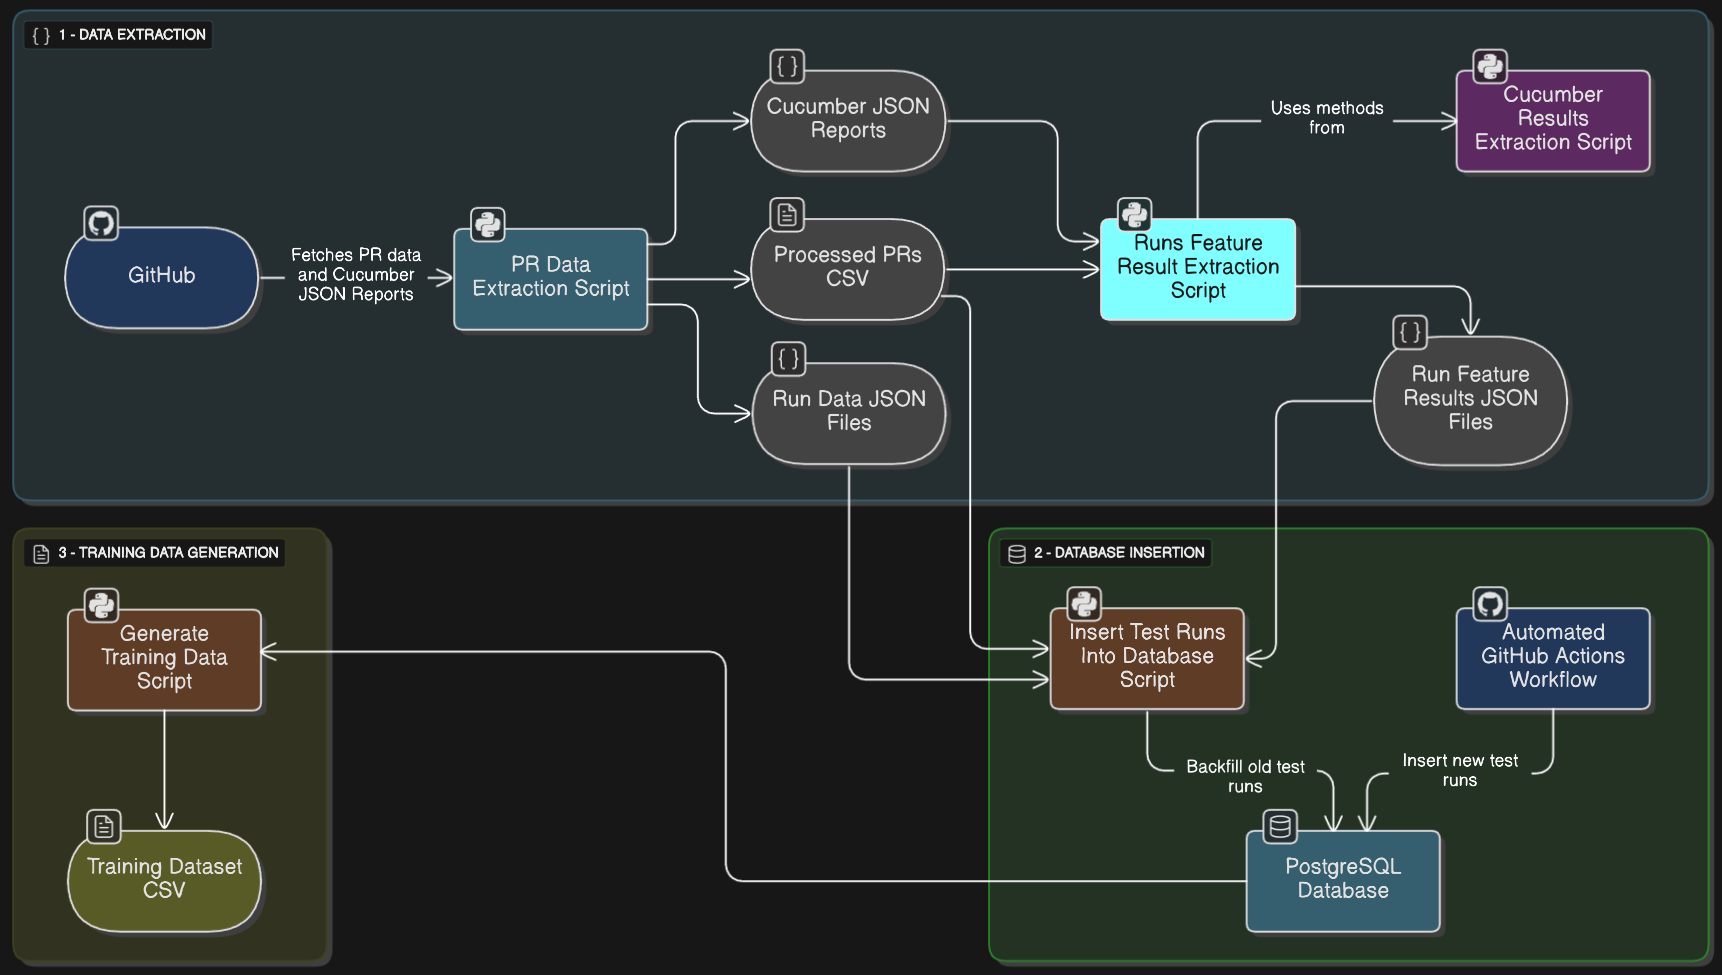
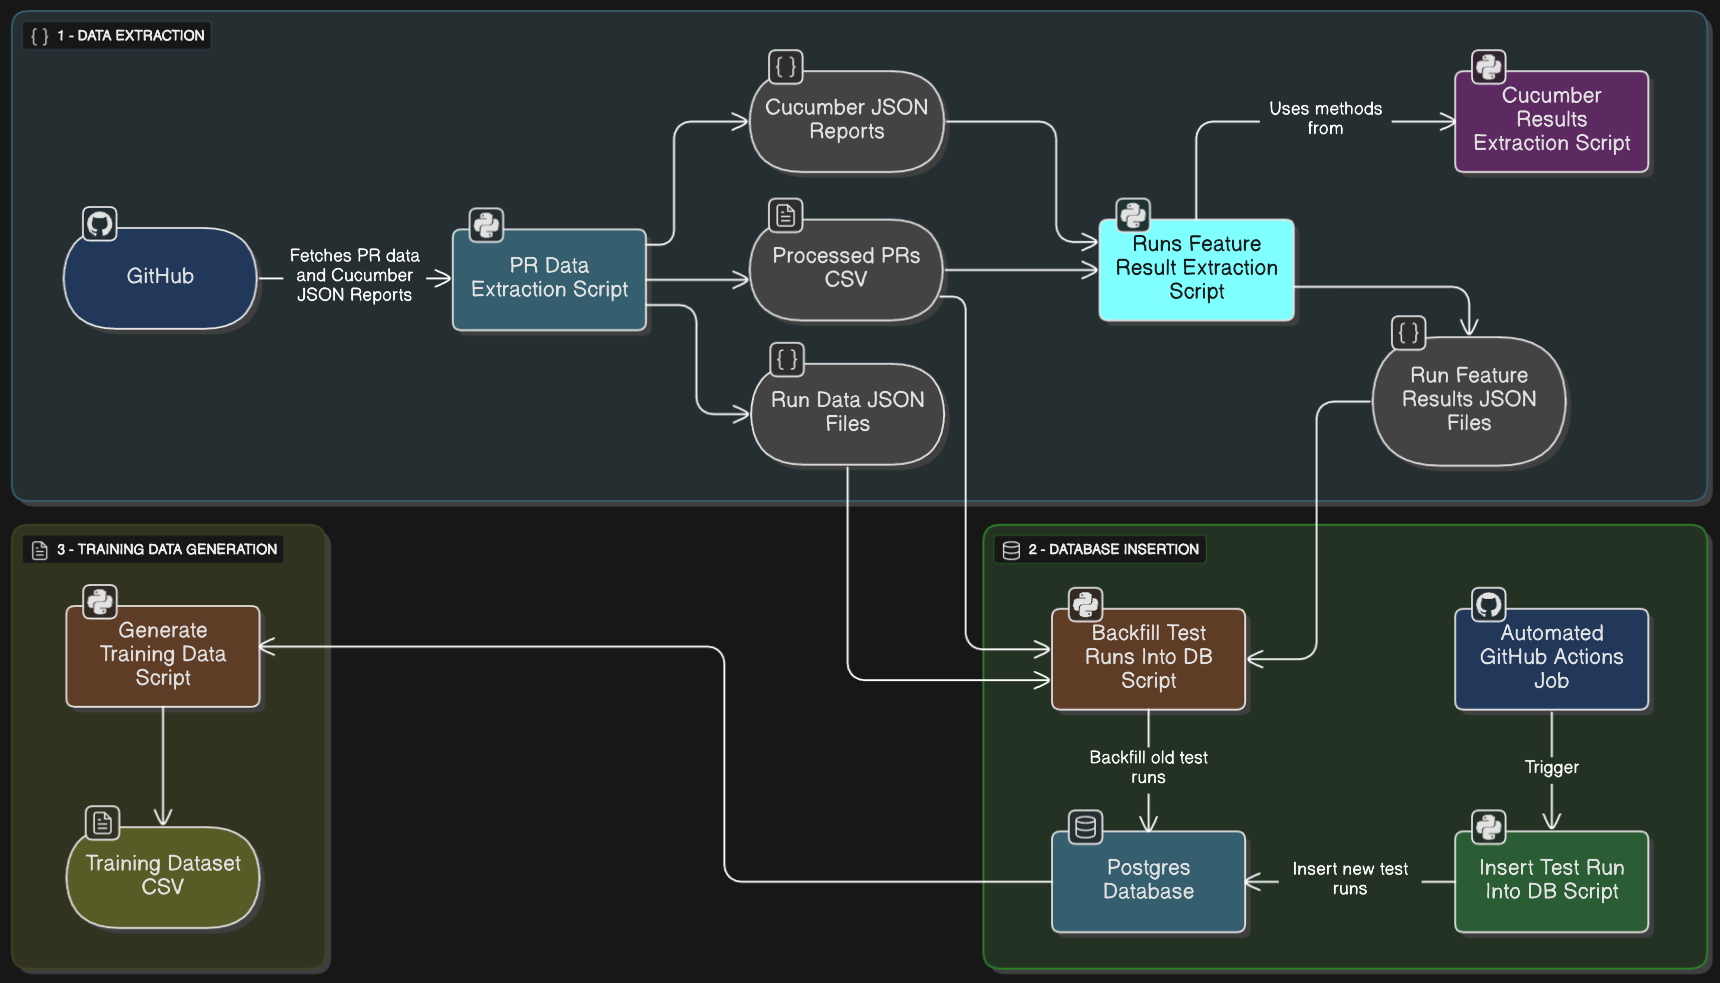
docs: add explanation of new DB test run insertion process

diff --git a/.github/scripts/insert_test_run_into_db.py b/.github/scripts/insert_test_run_into_db.py
@@ -8,7 +8,7 @@ It performs the following steps:
 3.  Filters downloaded Cucumber reports, keeping only secondary/recommended reports.
 4.  If secondary reports exist, it generates a run feature results JSON file.
 5.  Updates the run data JSON file with the final result (passed/failed) based on feature results.
-6.  Connects to the PostgreSQL database using a connection string from an environment variable.
+6.  Connects to the Postgres database using a connection string from an environment variable.
 7.  Inserts the test run data, including modified files and feature results, into the database.
 """
 import os

diff --git a/testsuite/ext-tools/predictive-test-selection/README.md b/testsuite/ext-tools/predictive-test-selection/README.md
@@ -14,7 +14,8 @@ The project is composed of several interconnected parts. This README explains ea
   - [3. Cucumber Results Extraction Script](#3-cucumber-results-extraction-script)
   - [4. Runs Feature Result Extraction Script](#4-runs-feature-result-extraction-script)
   - [5. Backfill Test Runs Into Database Script](#5-backfill-test-runs-into-database-script)
-  - [6. Generate Training Data Script](#6-generate-training-data-script)
+  - [6. Insert New Test Runs Into Database](#6-insert-new-test-runs-into-database)
+  - [7. Generate Training Data Script](#7-generate-training-data-script)
 
 High-level diagram of this phase
 
@@ -272,7 +273,59 @@ The example below shows the contents of the `test_runs` table. Other tables are 
 
 I tested the database using https://neon.com/
 
-## 6. Generate Training Data Script
+## 6. Insert New Test Runs Into Database
+
+### Functionality
+
+The `insert-test-run-into-db` GitHub Action job, defined in [acceptance_tests_coordinator.yml](../../../.github/workflows/acceptance_tests_coordinator.yml), automatically executes with each new test run. The job performs the following operations:
+
+1. Waits for PR tests completion.
+2. Retrieves the modified files in the PR, GitHub run ID, PR number, and the commit SHA that triggered the test run.
+3. Downloads all Cucumber JSON reports generated by the PR tests from GitHub Artifacts.
+4. Constructs the Postgres database connection string using Uyuni GitHub secrets and stores it in an environment variable.
+5. Triggers the [insert_test_run_into_db.py](../../../.github/scripts/insert_test_run_into_db.py) script with all collected data.
+
+The [insert_test_run_into_db.py](../../../.github/scripts/insert_test_run_into_db.py) script performs the database insertion by reusing functionalities from the other scripts in this phase.
+
+> [!WARNING]
+> This module requires storing PR test Cucumber JSON reports as GitHub Artifacts. The `insert-test-run-into-db` GitHub job retrieves these artifacts after test execution completes. Since GitHub Artifacts are free for public repositories, we can continue storing them without concerns.
+
+How this module currently fits in GitHub Actions
+
+![insert_new_test_runs_into_db.png](images/insert_new_test_runs_into_db.png)
+
+### Q&A
+
+<details>
+<summary>Expand</summary>
+
+#### Why wasn't this functionality added directly to the workflow that runs the tests to access Cucumber reports locally without relying on GitHub Artifacts?
+
+The PR acceptance tests are parallelized, which means adding database insertion directly after the test execution step would require inserting test results in multiple small pieces. This approach could lead to:
+- Race conditions on the database
+- Concurrency issues
+- Inefficient database operations
+
+The current approach waits for all tests to complete and all reports to be generated, then inserts them as a single batch. This method is simpler, less error-prone, more efficient, and has no drawbacks since GitHub Artifacts are free for public repositories.
+
+#### How are test re-runs handled?
+
+When inserting into the database, if a test run already exists, the system identifies it as a re-run and only adds new test results. Existing test results are not updated to maintain historical accuracy of the initial test results.
+
+#### How are Cucumber feature scenario counts maintained up-to-date?
+
+If a test run contains a feature with a different scenario count than what's stored in the database, the database scenario count is updated to reflect the current count.
+
+> [!NOTE]
+> The current scenario counting method may not be entirely accurate. Some scenarios within features are always skipped due to tags that exclude them from GitHub Actions or non-SUSE Manager environments. These skipped scenarios should not be counted in the total scenario count for GitHub Acceptance tests. This can be addressed by modifying the scenario counting logic to exclude scenarios with these tags, but this improvement is currently low priority.
+
+#### Why does the GitHub Action job only run in `uyuni-project/uyuni`?
+
+The job is restricted to the original Uyuni repository (`uyuni-project/uyuni`) because forks don't have access to the Postgres database secrets. A condition prevents the job from executing on forks to avoid failures.
+
+</details>
+
+## 7. Generate Training Data Script
 
 [generate_training_data.py](generate_training_data.py)
 
